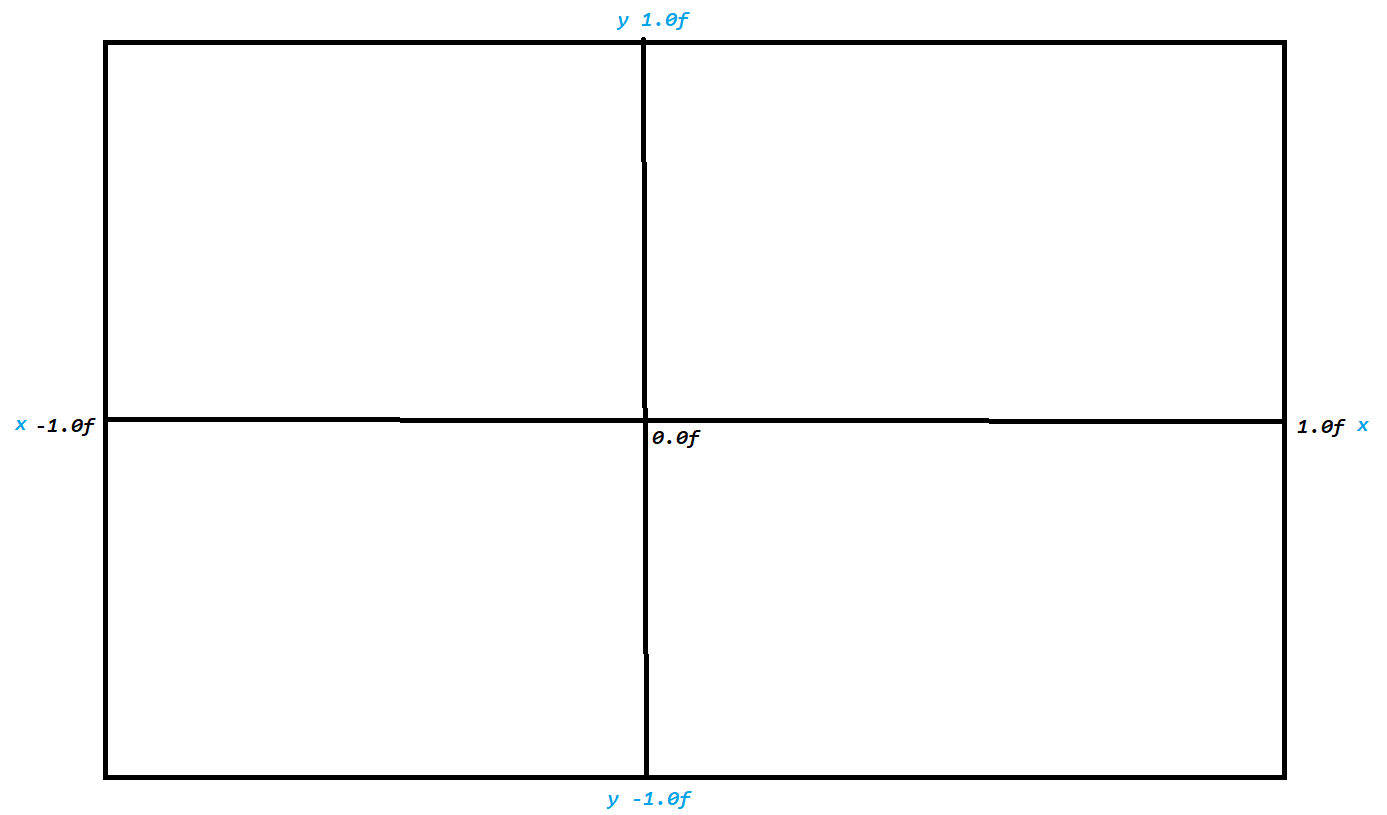
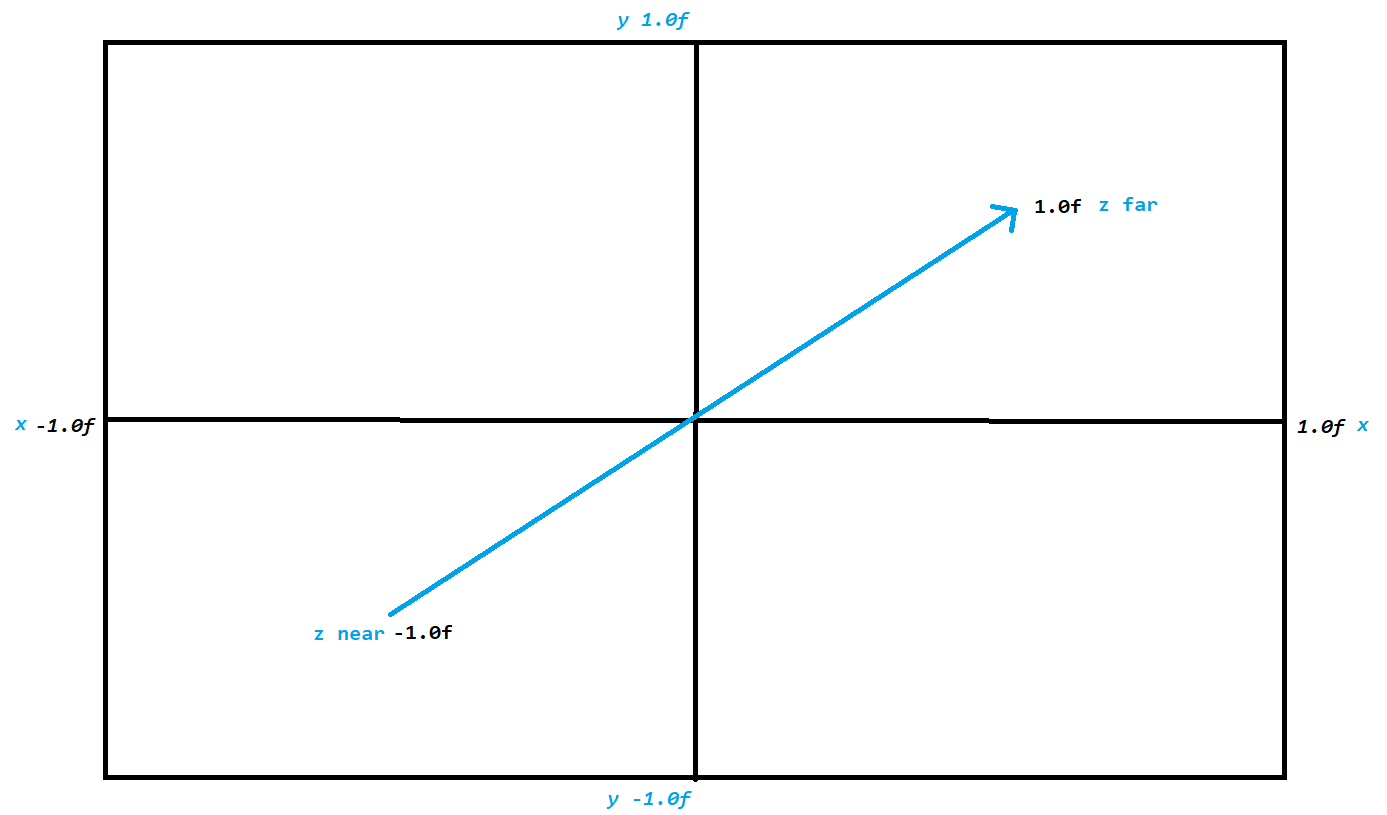
Added Z coord to demo image

diff --git a/README.md b/README.md
@@ -1,2 +1,5 @@
 # A Playground Project To Learn OpenGL
 A Multi Scene project implementation to help learning most of OpenGL stuff in one project divided by scene contexts and a main menu to organize things, whats doesn't like packed stuff ?
+
+## OpenGL Screen Coordinates 
+<img src="OpenGL Tutorials/OpenGL Screen Coords.png" width="600"/>
